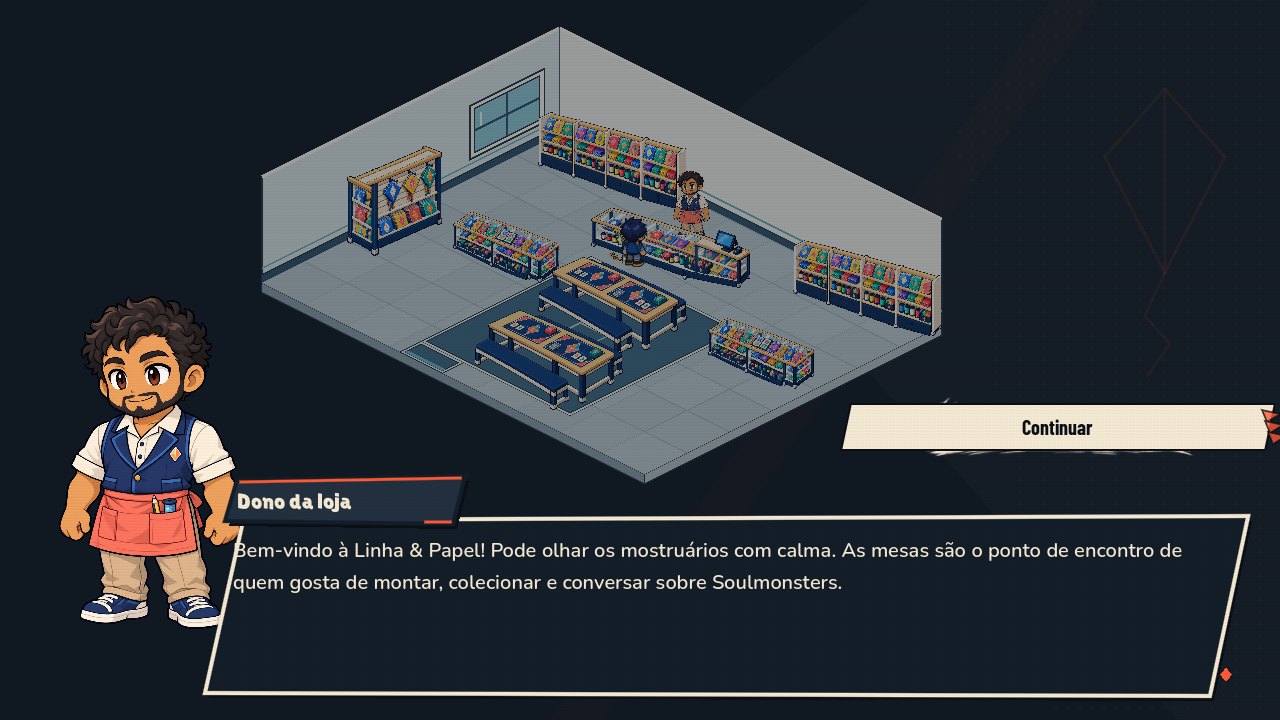
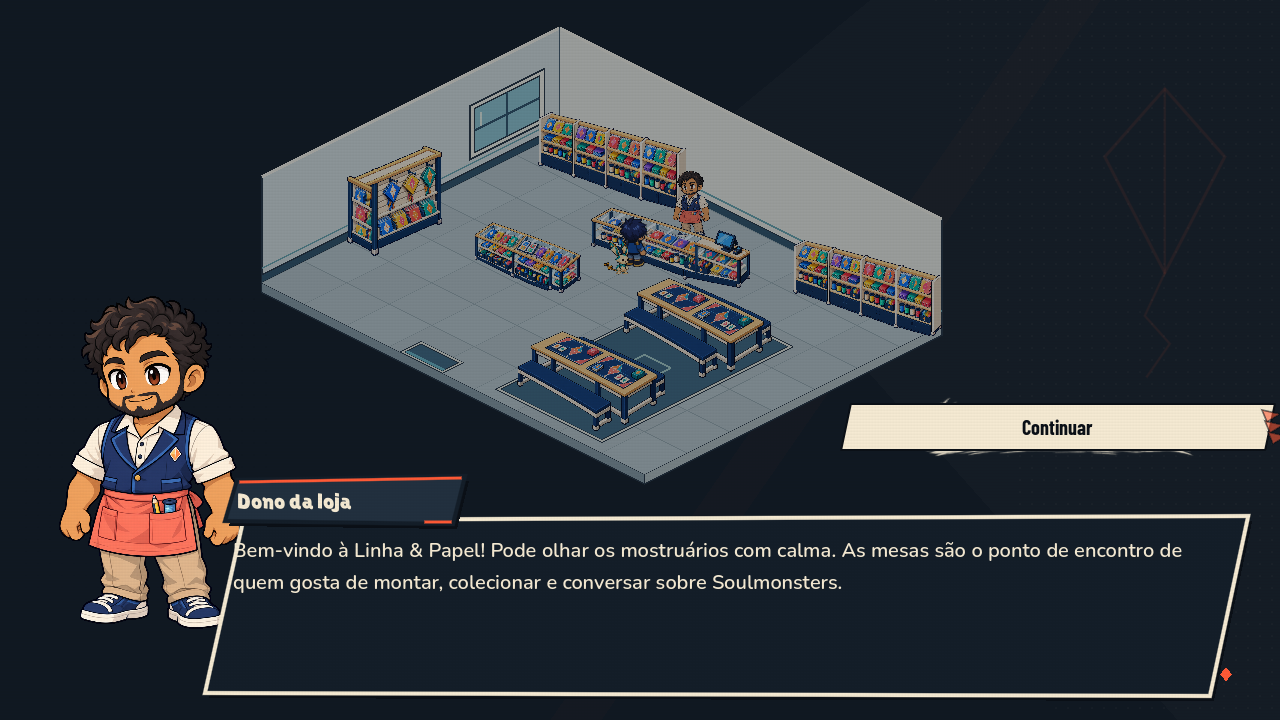
Mapa loja: abrir corredores e preservar retomada dos saves

Changed region(s): [[0.3125, 0.275, 0.6562, 0.6111], [0.9688, 0.5806, 1.0, 0.6111]]

diff --git a/documentation/overworld/loja-tcg/corredores.md b/documentation/overworld/loja-tcg/corredores.md
@@ -1,0 +1,43 @@
+# Revisão dos corredores da loja
+
+## 1. Arquivos e alteração
+
+Mesas deslocadas para a direita; ilha central deslocada uma célula para abrir sua lateral esquerda; vitrine duplicada da direita retirada. Seu ponto de interação agora atende ao mostruário da estante do fundo. Mantidas duas mesas, dono, entrada, dimensão da loja e todos os produtos/mesmos assets. Alterados `shop_data.gd`, testes/capturas e a prévia do save.
+
+O vão entre ilha e mesas passou de 2 para 4 células. Entre as mesas, de 1 para 2. A lateral entre expositor e ilha passou de 1,5 para 2,5. O teste exige uma faixa contínua de 3 células realmente livres para o jogador, considerando a margem de colisão, da entrada ao atendimento.
+
+## 2. Resultado automático
+
+```text
+SHOP MODERNO 47 checks; 6696 reachable samples; 0 isolated walkable samples; 0 failures
+SHOP FLOW 18 checks; doorway, movement, owner dialogue, save/resume, return; isolated directory
+CAMPAIGN CHECKS: 206 checks, 0 failures
+CAMPAIGN VIEW CHECKS: 30 checks, 0 failures
+PLAYER FLOW: 7 checks, 0 failures
+```
+
+Teste específico e fluxo nativo sem erros de script/shader. Os testes gerais de views/fluxo continuam com diagnósticos de recursos no encerramento, já registrados na entrega anterior. Não foi necessário repetir os testes do renderer externo ou do Mapa Studio, cujos módulos não foram alterados nesta revisão.
+
+## 3. Capturas
+
+`corredores-geometria-*` e `corredores-arte-*`: geral, versão sem atores, detalhes e oclusão, em 1280×720. `corredores-antes-depois.png`: comparação. `fluxo/02b-corredor-livre.png`: jogador no corredor durante percurso real automatizado. Fluxo, prévia de save e hashes atualizados.
+
+## 4. Percurso
+
+Verificados seis pontos de interação, faixa larga de passagem e ausência de bolsões. O frontend percorreu entrada → meio do corredor → balcão → saída; conferidos diálogo, retomada e retorno ao bairro, além da conversa com Lia fora da porta.
+
+## 5. História e itens
+
+Nenhuma mudança de história, item, preço ou recompensa. Não foram geradas novas artes.
+
+## 6. Compatibilidade
+
+Um save antigo pode ter sido feito numa posição onde agora há uma mesa. A validação aceita posições antigas dentro do piso; o RoomView encontra o ponto livre mais próximo ao carregar. Novos checkpoints continuam impedidos de gravar uma posição dentro de móvel pelo Journey. Os testes cobrem validação antiga, recuperação efetiva no RoomView, escrita inválida e save/retomada normais. A posição original segura é mantida sem deslocamento.
+
+## 7. Dúvidas
+
+Sem bloqueios; aguardando avaliação visual dos corredores.
+
+## 8. Não verificado
+
+Não houve sessão manual com controle físico ou exportação Steam/Windows. O percurso foi automatizado no jogo; os testes usam diretórios isolados. Compras e jogo de cartas continuam fora desta etapa. Sem push, merge ou deploy.

diff --git a/art/loja-tcg-v1/README.md b/art/loja-tcg-v1/README.md
@@ -1,5 +1,7 @@
 # Linha & Papel — kit de loja TCG v1
 
+Após a revisão de circulação, a gôndola é usada em uma única posição. As duas mesas foram deslocadas à direita. Artes originais preservadas; veja `documentation/overworld/loja-tcg/corredores.md`.
+
 Seis imagens originais geradas com a ferramenta nativa `image_gen.imagegen`: balcão-vitrine, estante, expositor vertical de pipas, ilha de mostruários, mesa com dois bancos e novo dono chibi. Fontes intactas em `fontes/`, prompts exatos e nomes de origem em `prompts.json`, medições alfa em `qa.json`. O balcão, orientado pelo novo ateliê do professor, foi a referência visual das quatro peças relacionadas. O NPC usa o Assis apenas como guia de linguagem chibi, com identidade, roupa e silhueta próprias.
 
 O usuário escolheu um novo personagem como dono. Lia permanece na frente da loja; o novo personagem não recebeu nome pessoal nem história: aparece como Dono da loja. O sprite tem um frame estático; não é um spritesheet de caminhada. A conversa reutiliza o mesmo desenho com recorte alfa no retrato.

diff --git a/documentation/overworld/loja-tcg/README.md b/documentation/overworld/loja-tcg/README.md
@@ -1,5 +1,7 @@
 # Linha & Papel — loja ampliada no Godot
 
+**Revisão vigente:** [corredores.md](corredores.md) documenta a redistribuição do mobiliário para passagens mais largas. Os números e a disposição abaixo registram a primeira entrega.
+
 ## 1. Arquivos criados e alterados
 
 Branch `codex/loja-tcg-moderna`, baseada na reforma do professor. Brief, seis fontes, prompts e alfa em `art/loja-tcg-v1/`. Kit em `godot/assets/campaign/loja-tcg-v1/`. Planta `shop_data.gd`; renderer `shop_modern.gd`; integração em RoomView, frontend, adaptador do bairro e validação de checkpoints. Preset Windows inclui os PNGs/JSON brutos. Teste `shop_modern_checks.gd`; capturas `shop_modern_capture.gd` e fluxo verificável `shop_flow_capture.gd`.
